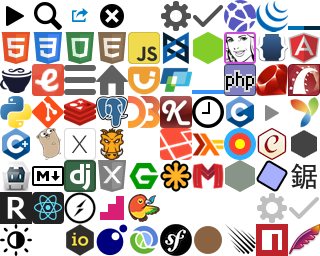
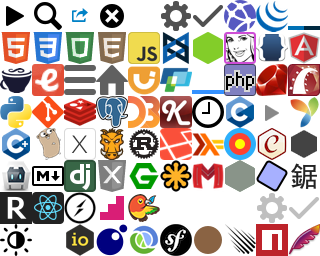
Add Rust documentation

Changed region(s): [[0.4062, 0.5, 0.5, 0.625]]

diff --git a/assets/stylesheets/global/_icons.scss b/assets/stylesheets/global/_icons.scss
@@ -65,7 +65,7 @@
 ._icon-go:before            { background-position: -1rem -4rem; }
 ._icon-express:before       { background-position: -2rem -4rem; }
 ._icon-grunt:before         { background-position: -3rem -4rem; }
-
+._icon-rust:before          { background-position: -4rem -4rem; @extend %darkIconFix !optional; }
 ._icon-laravel:before       { background-position: -5rem -4rem; }
 ._icon-haskell:before       { background-position: -6rem -4rem; }
 ._icon-requirejs:before     { background-position: -7rem -4rem; }

diff --git a/assets/stylesheets/pages/_rust.scss b/assets/stylesheets/pages/_rust.scss
@@ -1,0 +1,10 @@
+._rust {
+  @extend %simple;
+
+  h4 { @extend %block-label; }
+  .docblock { margin-left: 1em; }
+
+  div.stability { margin-bottom: 1em; }
+  em.stab, span.stab { @extend %label; }
+  em.stab.unstable, span.stab.unstable { @extend %label-orange; }
+}

diff --git a/assets/stylesheets/application-dark.css.scss b/assets/stylesheets/application-dark.css.scss
@@ -62,6 +62,7 @@
         'pages/requirejs',
         'pages/rethinkdb',
         'pages/rfc',
+        'pages/rust',
         'pages/socketio',
         'pages/sphinx',
         'pages/underscore',

diff --git a/assets/stylesheets/application.css.scss b/assets/stylesheets/application.css.scss
@@ -62,6 +62,7 @@
         'pages/requirejs',
         'pages/rethinkdb',
         'pages/rfc',
+        'pages/rust',
         'pages/socketio',
         'pages/sphinx',
         'pages/underscore',

diff --git a/lib/docs/filters/rust/entries.rb b/lib/docs/filters/rust/entries.rb
@@ -1,0 +1,56 @@
+module Docs
+  class Rust
+    class EntriesFilter < Docs::EntriesFilter
+      def get_name
+        if slug.start_with?('book')
+          at_css("#toc a[href='#{File.basename(slug)}']").content
+        elsif slug.start_with?('reference')
+          'Reference'
+        else
+          name = at_css('h1.fqn .in-band').content.remove(/\A.+\s/)
+          mod = slug.split('/').first
+          name.prepend("#{mod}::") unless name.start_with?(mod)
+          name
+        end
+      end
+
+      PRIMITIVE_SLUG = /\A(\w+)\/(primitive)\./
+
+      def get_type
+        if slug.start_with?('book')
+          'Guide'
+        elsif slug.start_with?('reference')
+          'Reference'
+        else
+          path = name.split('::')
+          heading = at_css('h1.fqn .in-band').content.strip
+          if path.length > 2 || (path.length == 2 && (heading.start_with?('Module') || heading.start_with?('Primitive')))
+            path[0..1].join('::')
+          else
+            path[0]
+          end
+        end
+      end
+
+      def additional_entries
+        if slug.start_with?('book')
+          []
+        elsif slug.start_with?('reference')
+          css('#TOC > ul > li > a', '#TOC > ul > li > ul > li > a').map do |node|
+            name = node.content
+            name.sub! %r{(\d)\ }, '\1. '
+            name.sub! '10.0.', '10.'
+            id = node['href'].remove('#')
+            [name, id]
+          end
+        else
+          css('#methods + * + div > .method', '#required-methods + div > .method', '#provided-methods + div > .method').map do |node|
+            name = node.at_css('.fnname').content
+            name.prepend "#{self.name}::"
+            [name, node['id']]
+          end
+        end
+      end
+    end
+  end
+end

diff --git a/lib/docs/filters/rust/clean_html.rb b/lib/docs/filters/rust/clean_html.rb
@@ -1,0 +1,63 @@
+module Docs
+  class Rust
+    class CleanHtmlFilter < Filter
+      def call
+        if slug.start_with?('book')
+          book
+        elsif slug.start_with?('reference')
+          reference
+        else
+          api
+        end
+
+        css('.rusttest', 'hr').remove
+
+        css('.docblock > h1').each { |node| node.name = 'h4' }
+        css('h2.section-header').each { |node| node.name = 'h3' }
+        css('h1.section-header').each { |node| node.name = 'h2' }
+
+        css('> .impl-items', '> .docblock').each do |node|
+          node.before(node.children).remove
+        end
+
+        css('h1 > a', 'h2 > a', 'h3 > a', 'h4 > a', 'h5 > a').each do |node|
+          node.before(node.children).remove
+        end
+
+        css('pre > code').each do |node|
+          node.parent['class'] = node['class']
+          node.before(node.children).remove
+        end
+
+        css('pre').each do |node|
+          node.content = node.content
+        end
+
+        doc
+      end
+
+      def book
+        @doc = at_css('#page')
+      end
+
+      def reference
+        css('#versioninfo').remove
+      end
+
+      def api
+        @doc = at_css('#main')
+
+        css('.toggle-wrapper').remove
+
+        css('h1.fqn').each do |node|
+          node.content = node.at_css('.in-band').content
+        end
+
+        css('.stability .stab').each do |node|
+          node.name = 'span'
+          node.content = node.content
+        end
+      end
+    end
+  end
+end

diff --git a/lib/docs/scrapers/rust.rb b/lib/docs/scrapers/rust.rb
@@ -1,0 +1,48 @@
+module Docs
+  class Rust < UrlScraper
+    self.type = 'rust'
+    self.version = '1.0.0'
+    self.base_url = 'http://doc.rust-lang.org/'
+    self.root_path = 'book/index.html'
+    self.initial_paths = %w(
+      reference.html
+      collections/index.html
+      std/index.html
+      unicode/index.html)
+    self.links = {
+      home: 'http://www.rust-lang.org/',
+      code: 'https://github.com/rust-lang/rust'
+    }
+
+    html_filters.push 'rust/entries', 'rust/clean_html'
+
+    options[:only_patterns] = [
+      /\Abook\//,
+      /\Acollections\//,
+      /\Astd\//,
+      /\Aunicode\// ]
+
+    options[:skip] = %w(book/README.html)
+    options[:skip_patterns] = [/(?<!\.html)\z/]
+
+    options[:fix_urls] = ->(url) do
+      url.sub! %r{(#{Rust.base_url}.+/)\z}, '\1index.html'
+      url.sub! '/unicode/u_str', '/unicode/str/'
+      url
+    end
+
+    options[:attribution] = <<-HTML
+      &copy; 2011-2015 The Rust Project Developers<br>
+      Licensed under the Apache License, Version 2.0 or the MIT license, at your option.
+    HTML
+
+    private
+
+    REDIRECT_RGX = /http-equiv="refresh"/i
+    NOT_FOUND_RGX = /<title>Not Found<\/title>/
+
+    def process_response?(response)
+      !(response.body =~ REDIRECT_RGX || response.body =~ NOT_FOUND_RGX || response.body.blank?)
+    end
+  end
+end
